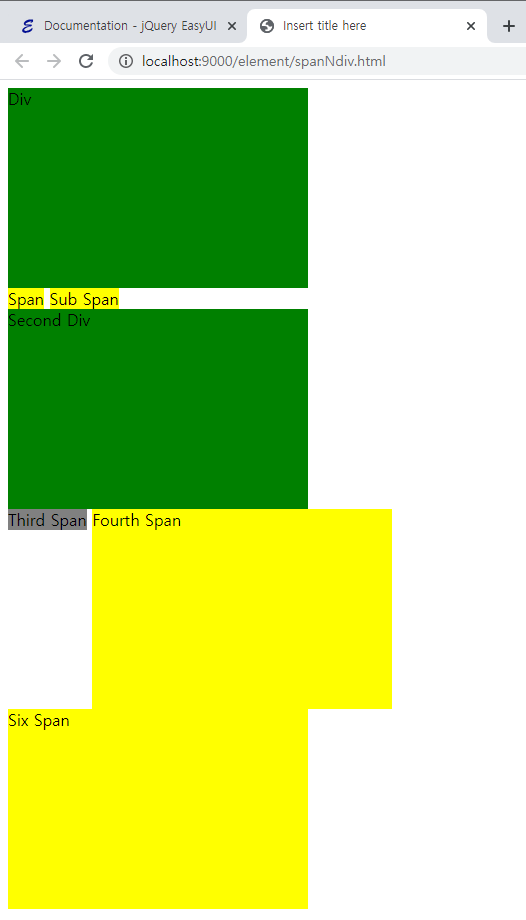
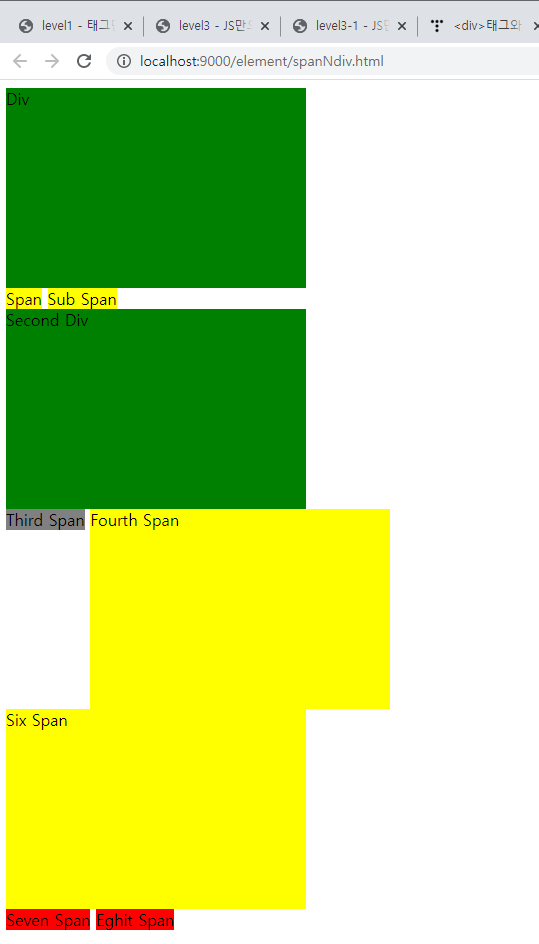
GitBook: [master] one page and one asset modified

Changed region(s): [[0.0, 0.0, 0.9734, 1.0]]

diff --git a/1-days/untitled-8/less-than-div-greater-than-less-than-span-greater-than.md b/1-days/untitled-8/less-than-div-greater-than-less-than-span-greater-than.md
@@ -52,6 +52,11 @@
 		height: 200px;
 		background-color: yellow;
 	}	
+	span.color{
+		width: 300px;
+		height: 200px;
+		background-color: red;
+	}	
 </style>
 </head>
 <body>
@@ -66,6 +71,8 @@
 	<span id="sp_4">Fourth Span</span>
 	<span id="sp_5">Five Span</span>
 	<span id="sp_6">Six Span</span>
+	<span id="sp_7" class="color">Seven Span</span>
+	<span id="sp_8" class="color">Eghit Span</span>
 </body>
 </html>
 ```
